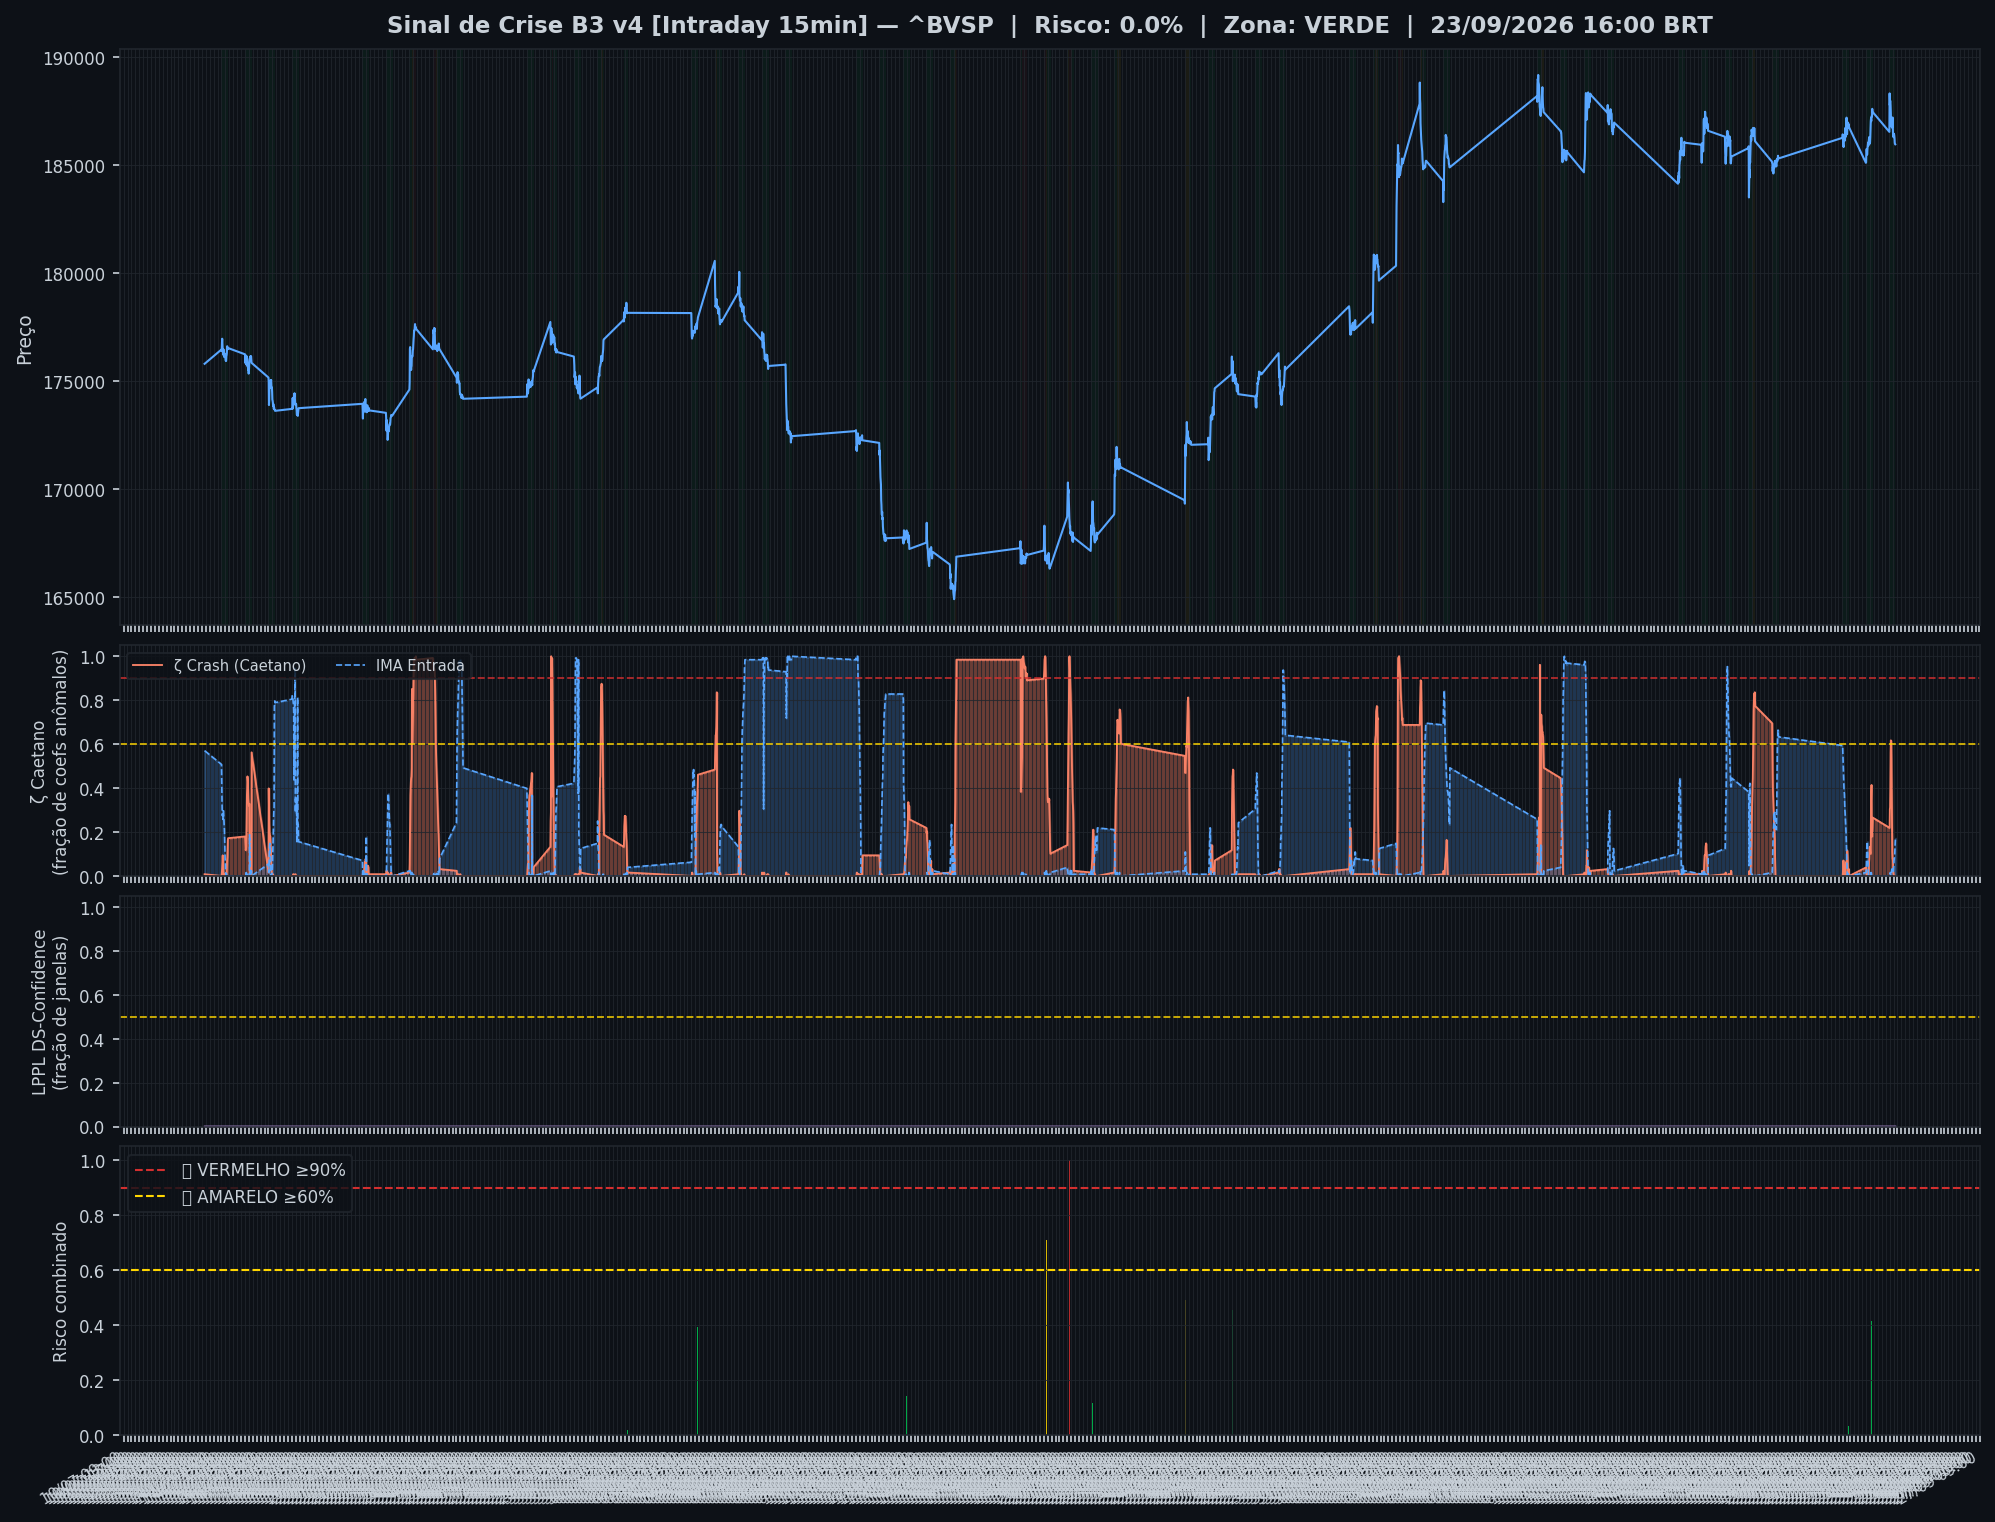
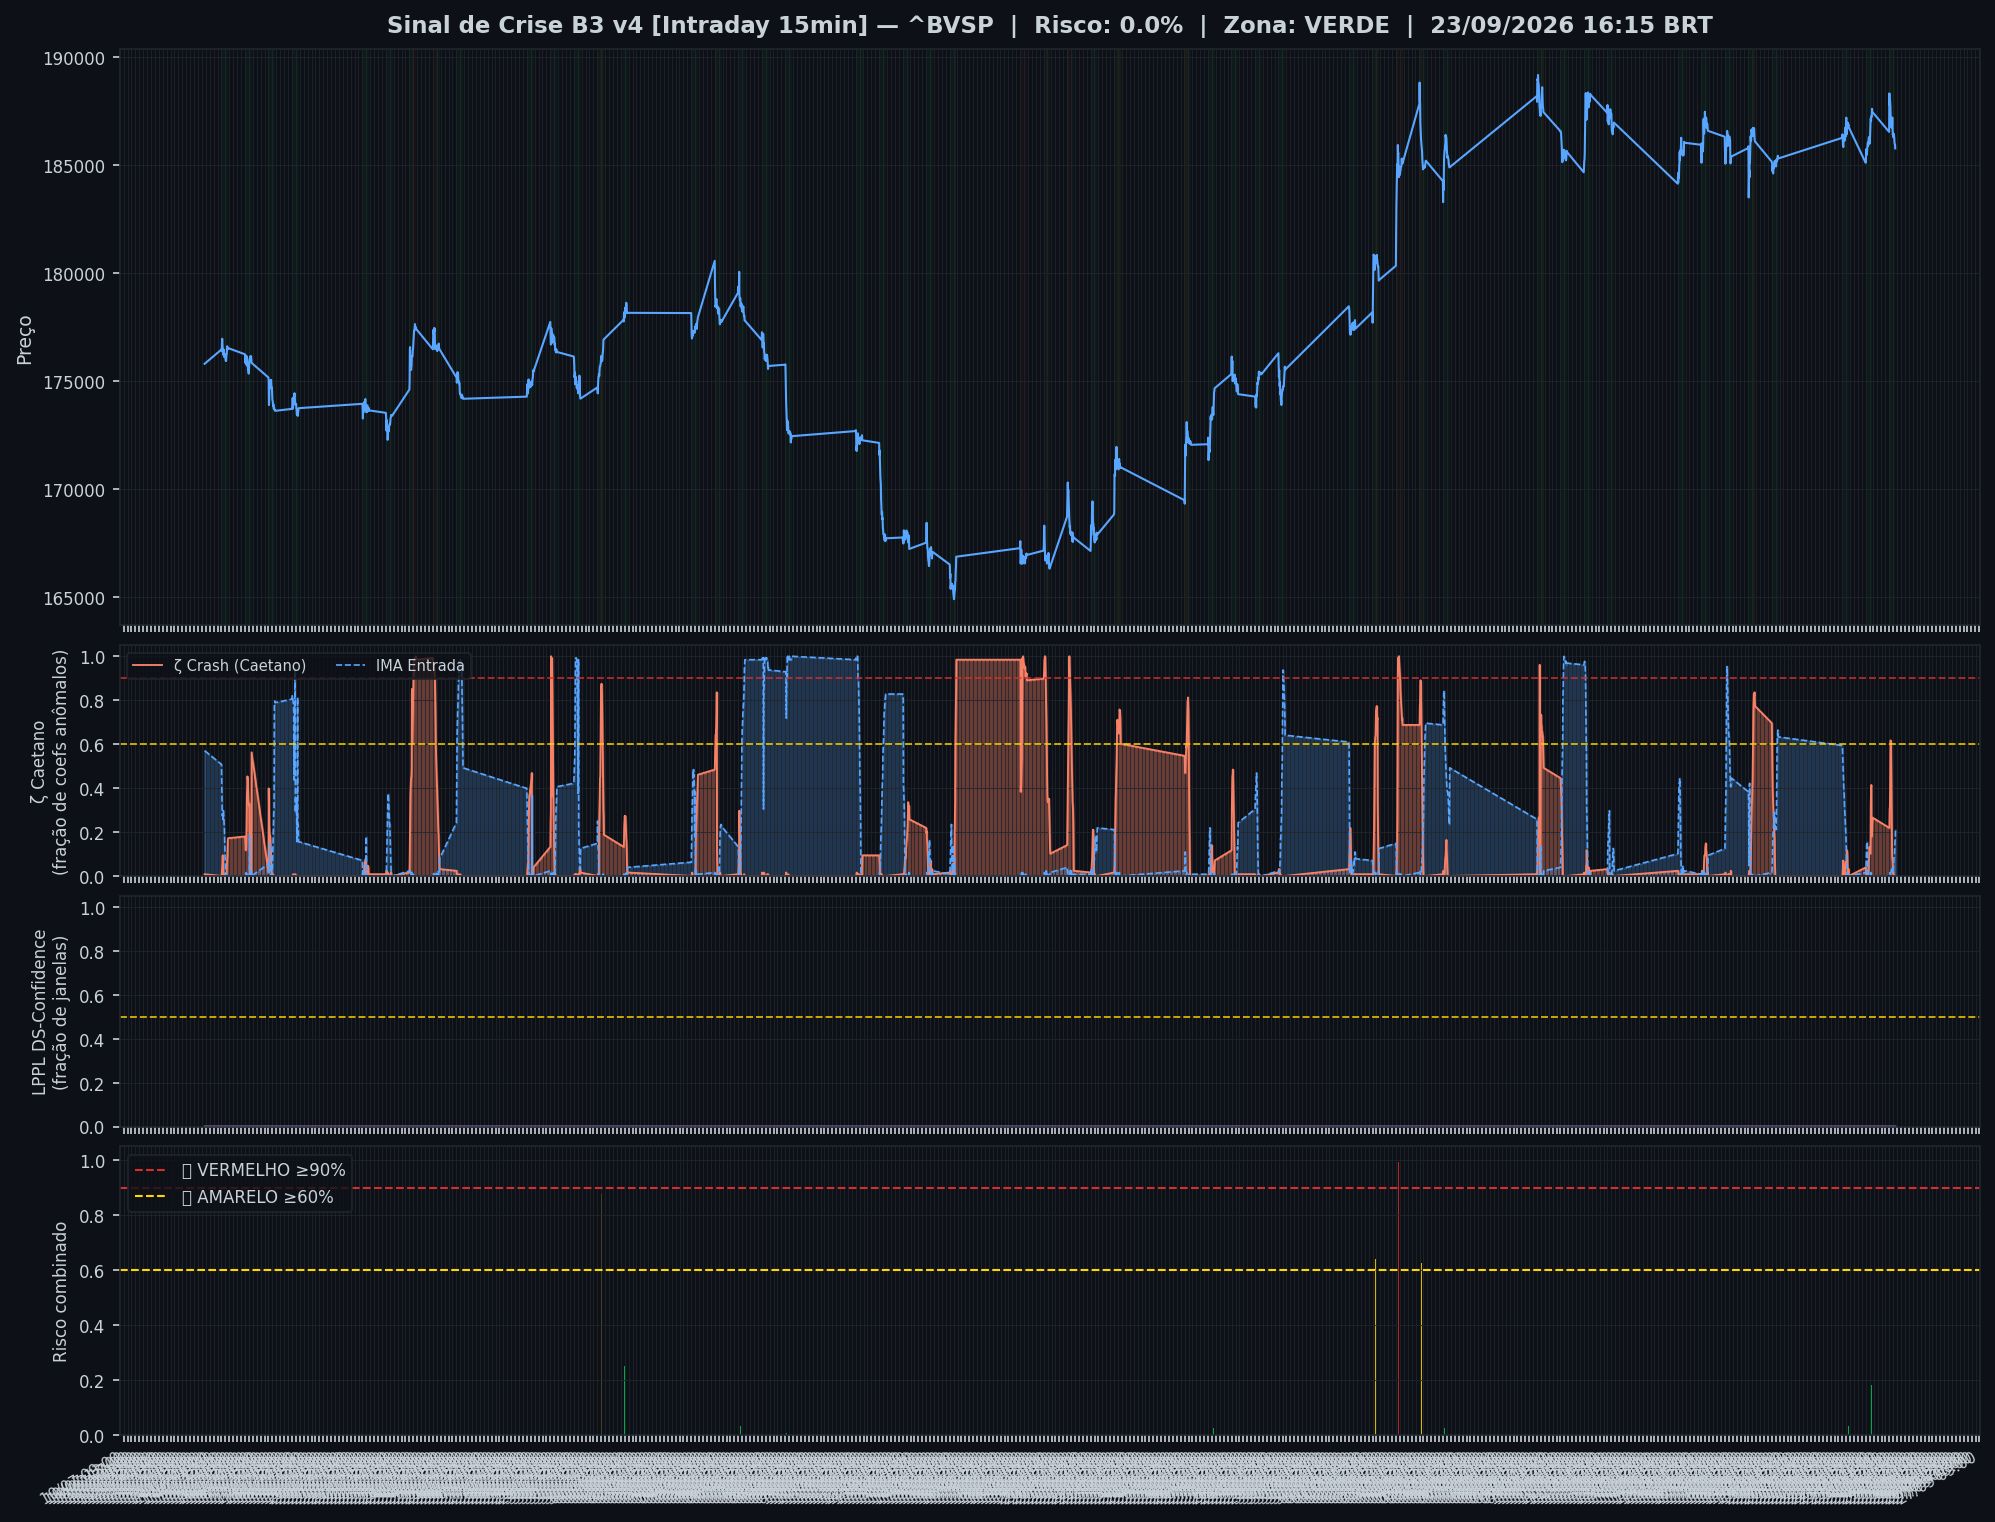
🤖 Auto: Sinal 23/09/2026 17:01

diff --git a/content/intraday/2026-09-23.md b/content/intraday/2026-09-23.md
@@ -1,5 +1,5 @@
 ---
-title: "🟢 Intraday 23/09/2026 16:00 BRT — VERDE"
+title: "🟢 Intraday 23/09/2026 16:15 BRT — VERDE"
 date: 2026-09-23
 tags: [intraday]
 ---
@@ -12,9 +12,9 @@ tags: [intraday]
 | Indicador | Valor |
 |---|---|
 | 🔴 ζ Crash — severidade da queda em curso | **0%** |
-| 🔵 ζ Entrada — estrutura de fundo | 17% |
+| 🔵 ζ Entrada — estrutura de fundo | 21% |
 | 🫧 LPPL DS-Confidence | 0% |
-| 📊 Ibovespa | 185.960 pts |
+| 📊 Ibovespa | 185.771 pts |
 
 ![Gráfico do sinal](../graficos/sinal_intraday.png)
 
@@ -22,6 +22,7 @@ tags: [intraday]
 
 | Data | Zona | Risco | IMA Crash | Entrada | LPPL |
 |---|---|---|---|---|---|
+| 2026-09-23 16:15 | 🟢 VERDE | **0%** | 0% | 21% | 0% |
 | 2026-09-23 16:00 | 🟢 VERDE | **0%** | 0% | 17% | 0% |
 | 2026-09-23 15:45 | 🟢 VERDE | **0%** | 0% | 16% | 0% |
 | 2026-09-23 15:30 | 🟢 VERDE | **0%** | 0% | 13% | 0% |
@@ -51,7 +52,6 @@ tags: [intraday]
 | 2026-09-22 16:30 | 🟢 VERDE | **25%** | 25% | 0% | 0% |
 | 2026-09-22 16:15 | 🟢 VERDE | **23%** | 23% | 0% | 0% |
 | 2026-09-22 16:00 | 🟢 VERDE | **20%** | 20% | 0% | 0% |
-| 2026-09-22 15:45 | 🟢 VERDE | **18%** | 18% | 0% | 0% |
 
 ## Monitor Multi-Ativo
 
@@ -59,6 +59,7 @@ tags: [intraday]
 
 | Zona | Ativo | Setor | IMA Crash | IMA Entrada |
 |---|---|---|---|---|
+| 🟢 | **USD/BRL** | Câmbio | 13.3% | 2.3% |
 | 🟢 | **VALE** | Mineração | 1.6% | 0.0% |
 | 🟢 | **ITAUUNIBANCO** | Financeiro | 1.6% | 0.0% |
 | 🟢 | **PETROBRAS** | Petróleo | 1.6% | 0.0% |
@@ -84,11 +85,10 @@ tags: [intraday]
 | 🟢 | **GERDAU** | Siderurgia | 1.6% | 0.0% |
 | 🟢 | **SUZANO S.A.** | Papel/Celulose | 1.6% | 0.0% |
 | 🟢 | **RAIADROGASIL** | Outros | 1.6% | 0.0% |
-| 🟢 | **USD/BRL** | Câmbio | 0.0% | 2.3% |
 
 ![Monitor multi-ativo](../graficos/multi_intraday.png)
 
-*Página atualizada em 23/09/2026 16:46 BRT (leitura da barra de 2026-09-23 16:00 BRT).*
+*Página atualizada em 23/09/2026 17:01 BRT (leitura da barra de 2026-09-23 16:15 BRT).*
 
 > [!info]- Como interpretar (clique para expandir)
 > - **ζ Crash**: fração dos coeficientes wavelet acima do corte (Caetano & Yoneyama 2009). Escala absoluta: ζ=0,90 = 90% dos coeficientes anômalos — historicamente, quedas com ζ≥0,90 foram mais fundas e mais longas. **Mede a severidade do movimento em curso, não prevê o início da queda.**

diff --git a/content/index.md b/content/index.md
@@ -8,7 +8,7 @@ tags: [home]
 
 Monitoramento diário e intraday do Ibovespa — **IMA Wavelet** (Prof. Marco Antonio Leonel Caetano, ITA/INSPER) + **LPPL DS-Confidence** (Prof. Didier Sornette, ETH-Zurich).
 
-*Última atualização: 23/09/2026 16:46 BRT · ^BVSP · Intraday 15min · v4*
+*Última atualização: 23/09/2026 17:01 BRT · ^BVSP · Intraday 15min · v4*
 
 > [!success] 🟢 **VERDE** — Risco 0% · ＝ +0 p.p. vs leitura anterior
 > `░░░░░░░░░░░░░░░░░░░░`
@@ -18,9 +18,9 @@ Monitoramento diário e intraday do Ibovespa — **IMA Wavelet** (Prof. Marco An
 | Indicador | Valor |
 |---|---|
 | 🔴 ζ Crash — severidade da queda em curso | **0%** |
-| 🔵 ζ Entrada — estrutura de fundo | 17% |
+| 🔵 ζ Entrada — estrutura de fundo | 21% |
 | 🫧 LPPL DS-Confidence | 0% |
-| 📊 Ibovespa | 185.960 pts |
+| 📊 Ibovespa | 185.771 pts |
 
 **Multi-ativo:** 0% em tensão (0🔴 0🟡 de 26 ativos)
 

diff --git a/content/historico.md b/content/historico.md
@@ -7,6 +7,7 @@ tags: [historico]
 
 | Data | Modo | Zona | Risco | IMA | LPPL |
 |---|---|---|---|---|---|
+| 2026-09-23 16:15 | intraday | 🟢 VERDE | 0% | 0% | 0% |
 | 2026-09-23 16:00 | intraday | 🟢 VERDE | 0% | 0% | 0% |
 | 2026-09-23 15:45 | intraday | 🟢 VERDE | 0% | 0% | 0% |
 | 2026-09-23 15:30 | intraday | 🟢 VERDE | 0% | 0% | 0% |
